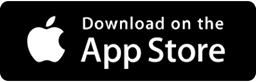
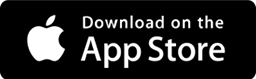
Added shadows to appstore buttons

diff --git a/less/header.less b/less/header.less
@@ -67,6 +67,12 @@
                 font-size: @button-text;
                 text-decoration: none;
                 .button-shadow();
+                &:hover {
+                    background-color: lighten(@button-background, 20%);
+                }
+                &:active {
+                    background-color: lighten(@button-background, 10%);
+                }
                 @media @mobile {
                     padding: 6% 5% 4%;
                 }
@@ -76,6 +82,10 @@
                 @media @mobile {
                     width: 70%;
                     margin: 2% auto;
+                }
+                img {
+                    border-radius: 7px;
+                    .button-shadow();
                 }
             }
         }

diff --git a/css/index.css b/css/index.css
@@ -238,6 +238,12 @@ body {
 .mainHeader .cta .header-links .webapp:active {
   box-shadow: none;
 }
+.mainHeader .cta .header-links .webapp:hover {
+  background-color: #77ab74;
+}
+.mainHeader .cta .header-links .webapp:active {
+  background-color: #5c9359;
+}
 @media ( max-width: 500px ) {
   .mainHeader .cta .header-links .webapp {
     padding: 6% 5% 4%;
@@ -251,6 +257,13 @@ body {
     width: 70%;
     margin: 2% auto;
   }
+}
+.mainHeader .cta .header-links .app img {
+  border-radius: 7px;
+  box-shadow: 1px 3px 3px rgba(0, 0, 0, 0.5);
+}
+.mainHeader .cta .header-links .app img:active {
+  box-shadow: none;
 }
 footer {
   width: 100%;
